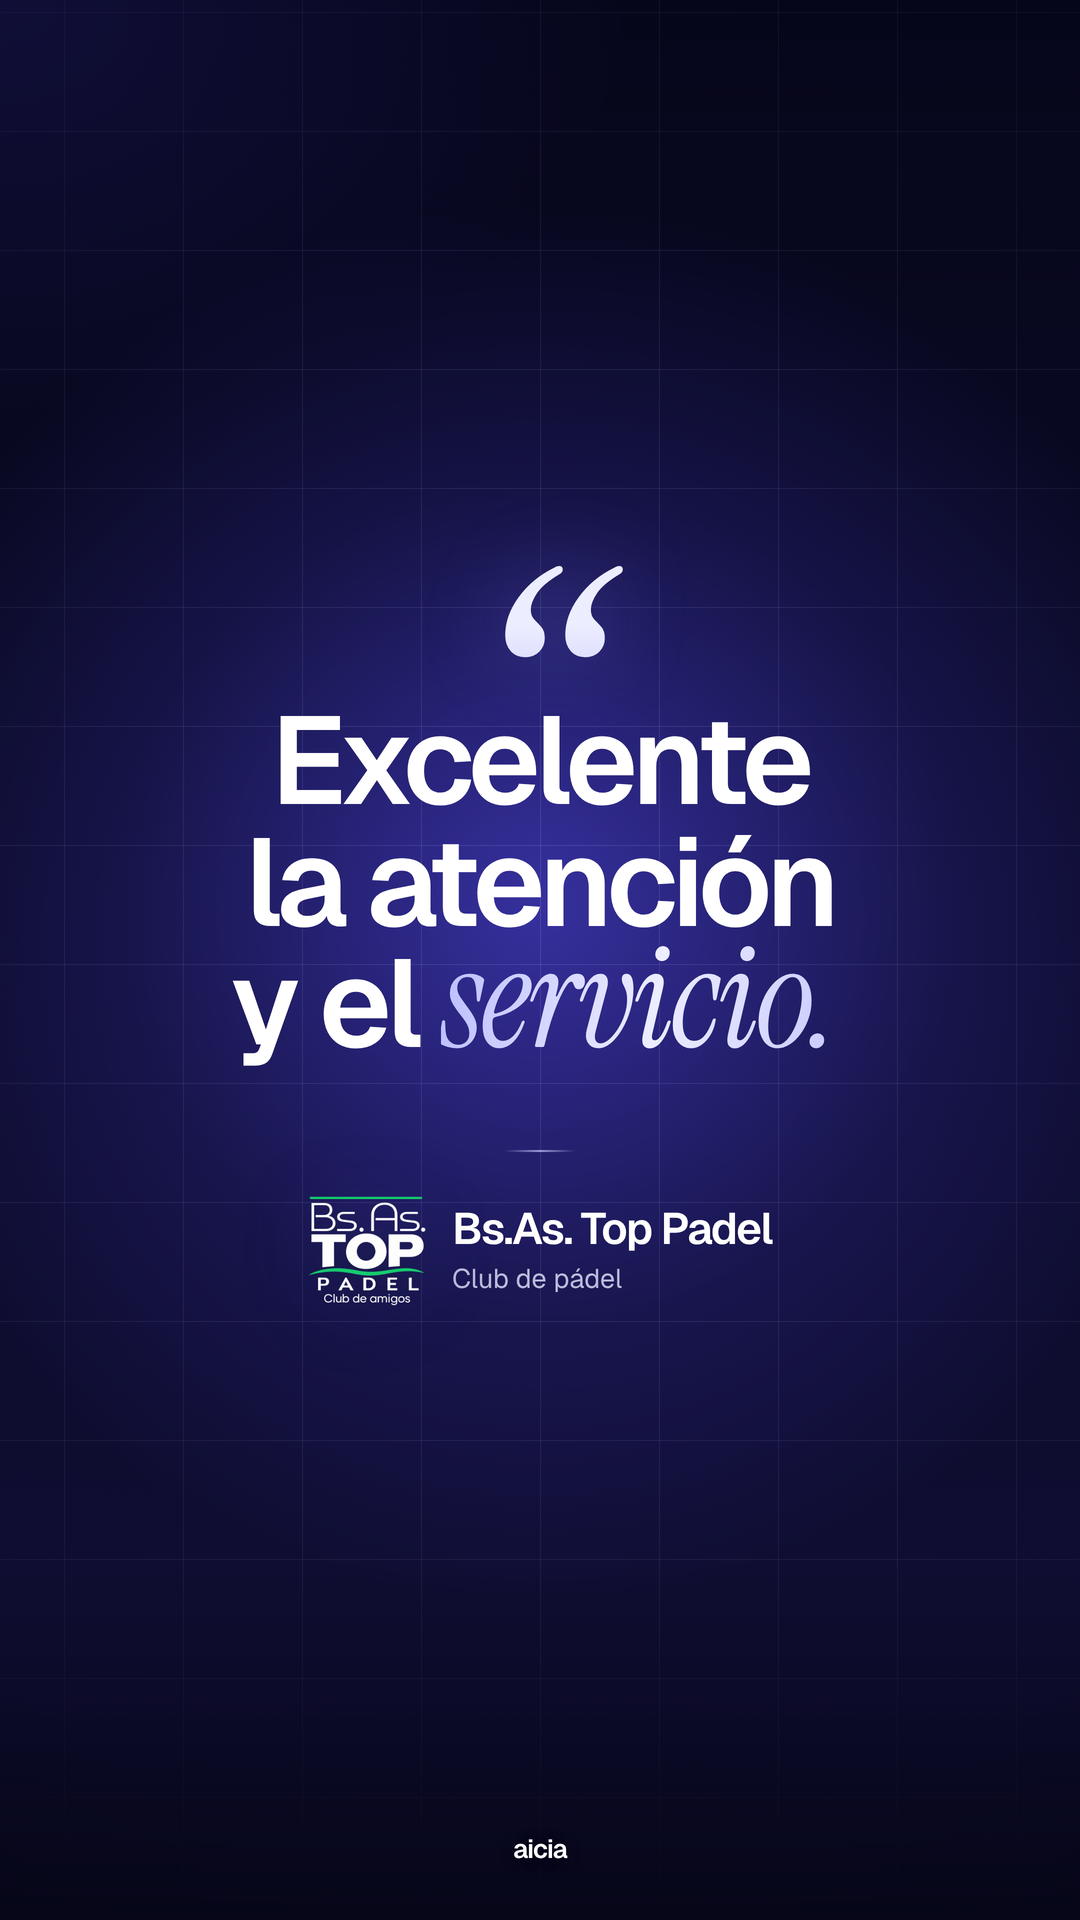
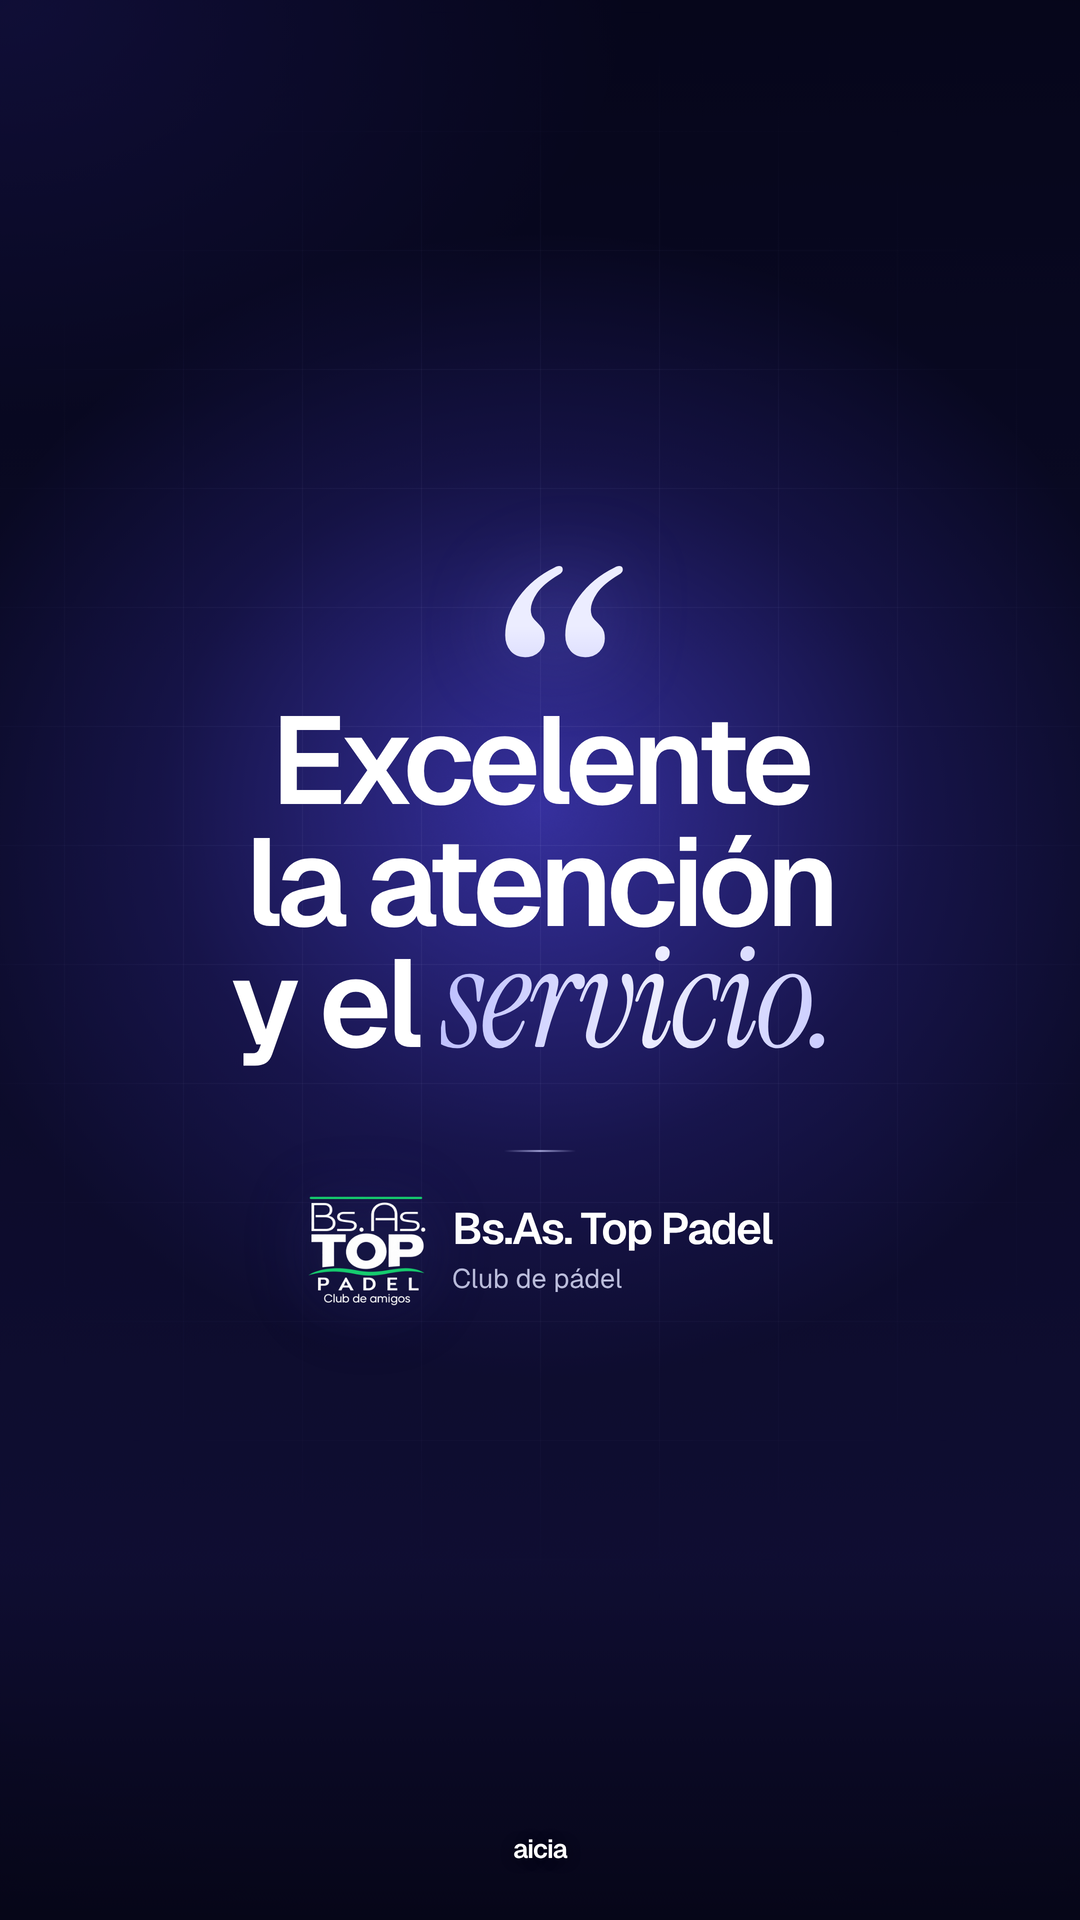
Testimonio de Bs.As. Top: mismo fondo (luz y cuadros) que la tarjeta del club
Claude-Session: https://claude.ai/code/session_01SBSshHAET78NiDLxszLW9R

Changed region(s): [[0.2444, 0.4688, 0.7333, 0.75]]

diff --git a/historias/clientes-proyectos/historias.html b/historias/clientes-proyectos/historias.html
@@ -240,10 +240,8 @@ svg.app .gl .f{fill:#fff;stroke:none}
 .card .pill b{font-weight:600;background:linear-gradient(90deg,#E4E5FF,#B9BBFF);-webkit-background-clip:text;background-clip:text;-webkit-text-fill-color:transparent}
 
 /* Testimonio: la frase es el titular, centrada como las tarjetas de clientes */
-.testi{--gx:50%;--gy:47%;--gw:1000px;--gh:1000px}
-/* Guille pidió que en el testimonio se vean los cuadros del fondo: líneas más marcadas y una grilla que cubre más pantalla */
-.testi{--mw:1500px;--mh:1900px}
-.testi .grid{background-image:linear-gradient(rgba(199,201,255,.13) 1px,transparent 1px),linear-gradient(90deg,rgba(199,201,255,.13) 1px,transparent 1px)}
+/* Mismo escenario que la tarjeta del club (la historia anterior): misma luz y mismos cuadros del fondo, como pidió Guille */
+.testi{--gx:50%;--gy:42%;--gw:900px;--gh:820px}
 .testi .q-mark{left:0;right:0;top:546px;z-index:5;text-align:center;font-family:"Instrument Serif",serif;font-style:italic;font-weight:400;font-size:400px;line-height:1;
   background:linear-gradient(180deg,#ECEDFF 20%,#9A9BFA 70%);-webkit-background-clip:text;background-clip:text;-webkit-text-fill-color:transparent;filter:drop-shadow(0 0 40px rgba(129,132,255,.35))}
 .testi .q-text{left:0;right:0;top:700px;text-align:center;font-size:124px}

diff --git a/CLAUDE.md b/CLAUDE.md
@@ -77,7 +77,7 @@ node exportar-instagram.mjs            # TODO listo para subir → historias/ins
   - la frase textual que pasó Guille como titular: "Excelente la atención y el *servicio.*";
   - línea, y abajo el logo del club **suelto, sin contorno** (Guille pidió sacar el cuadro de vidrio) con "Bs.As. Top Padel" / "Club de pádel".
   - Se atribuye al club: sin nombre de persona, sin estrellas ni puntajes (no los dio). Sin etiqueta arriba: las comillas ya dicen que es un testimonio.
-  - **Cuadros del fondo más visibles** (pedido de Guille): en `.testi` la grilla tiene líneas al 13 % (en vez de 7 %) y cubre casi toda la pantalla. El PNG se sacó al doble de resolución y se achicó con lanczos, como en la exportación.
+  - **Mismo fondo que la tarjeta del club** (Guille pidió "los mismos cuadrados que esta historia"): `.testi` usa la misma luz y la misma grilla que `.card`, así las dos historias seguidas se ven como una. El PNG se sacó al doble de resolución y se achicó con lanczos, como en la exportación.
   - Para sumar otro testimonio: duplicá la sección `.testi`, cambiá la frase (textual, la que pase Guille), el logo y el `data-file`, y ubicala después de la tarjeta de ese cliente.
 
 | Cliente | Rubro | Estilo del logo |
